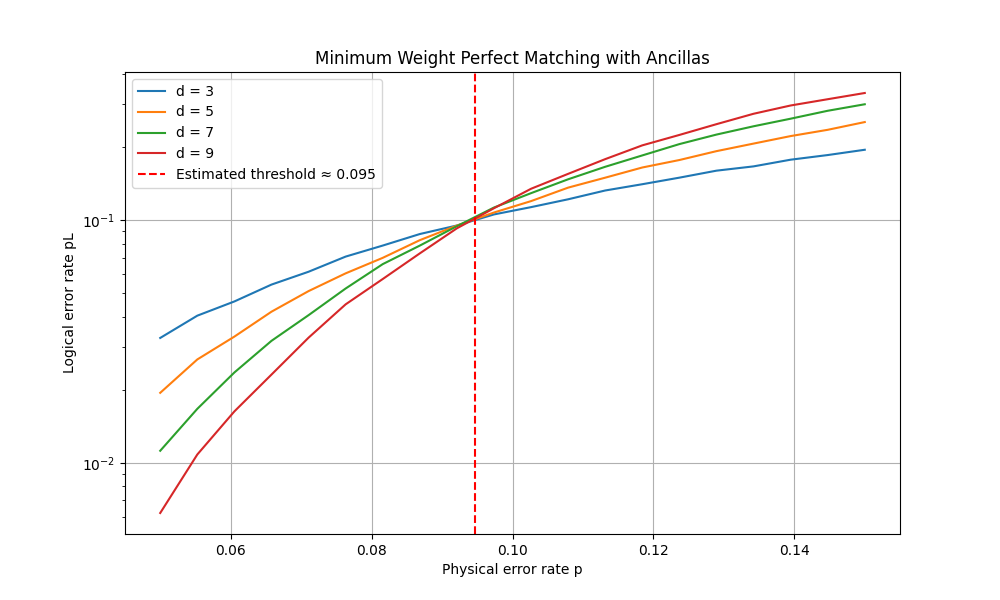
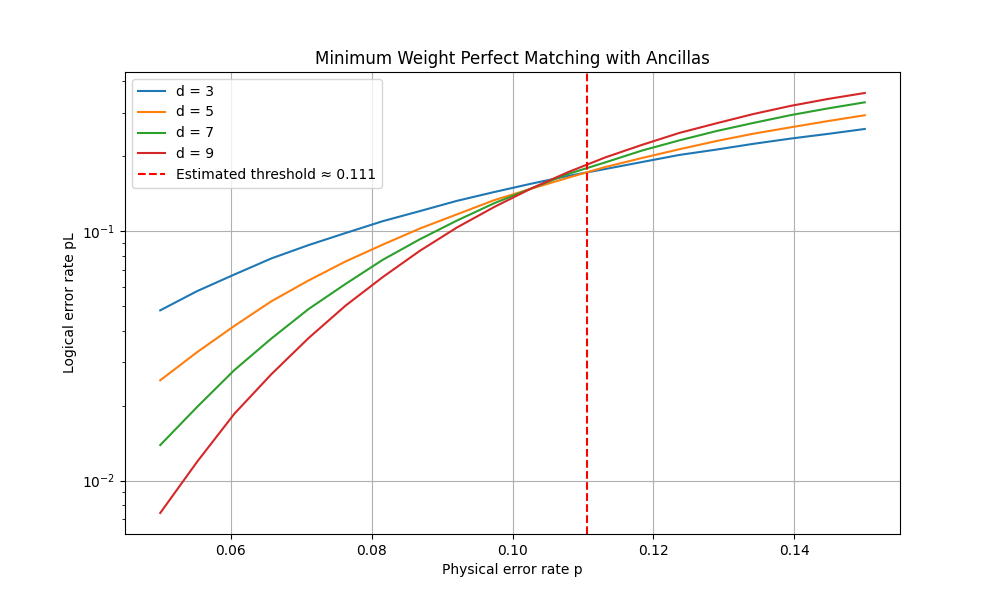
fix: Problem 2 Threshold (#8)
* fix circuit

* improve theshold

* add comment

* upload result

diff --git a/simulation_code/problem_2.py b/simulation_code/problem_2.py
@@ -30,41 +30,22 @@ def generate_repetition_code_circuit(d, p, q):
         circuit.append("R", [qubit])
 
     for _ in range(d - 1):
-        # Errors for data qubits
-        for qubit in range(d):
-            circuit.append("X_ERROR", [qubit], p)
+        for i in range(total_qubits):
+            if i % 2 == 0:
+                circuit.append_operation("X_ERROR", [i], p)
+            else:
+                circuit.append_operation("X_ERROR", [i], q)
 
-        # Errors for ancilla qubits
-        for qubit in range(d, total_qubits):
-            circuit.append("X_ERROR", [qubit], q)
+        for i in range(1, total_qubits, 2):
+            circuit.append_operation("CNOT", [i - 1, i])
+            circuit.append_operation("CNOT", [i + 1, i])
+            circuit.append_operation("M", [i])
+            circuit.append_operation("R", [i])
 
-        # Hadamard for ancilla qubits
-        for qubit in range(d, total_qubits):
-            circuit.append("H", [qubit])
-
-        # 1st set of CZ
-        for qubit in range(d, total_qubits):
-            circuit.append("CZ", [qubit, qubit - d + 1])
-
-        # 2nd set of CZ
-        for qubit in range(d, total_qubits):
-            circuit.append("CZ", [qubit, qubit - d])
-
-        # Hadamard for ancilla qubits
-        for qubit in range(d, total_qubits):
-            circuit.append("H", [qubit])
-
-        # Measure ancilla qubits
-        for qubit in range(d, total_qubits):
-            circuit.append("MZ", [qubit])
-
-        # Reset ancilla qubits
-        for qubit in range(d, total_qubits):
-            circuit.append("R", [qubit])
-
-    # Measure data qubits
-    for qubit in range(d):
-        circuit.append("MZ", [qubit])
+    # Measure in Z basis
+    for i in range(0, total_qubits, 2):
+        circuit.append_operation("X_ERROR", [i], p)
+        circuit.append_operation("M", [i])
 
     return circuit
 
@@ -218,10 +199,16 @@ def simulate_threshold(n_runs=10**6):
     threshold_p = None
     for i in range(len(probabilities) - 1):
         pL_prev_dist = -1
+        all_d = True
         for d in distances:
-            if i > 0 and pL_prev_dist > 0 and pL_prev_dist < results[d][i]:
-                threshold_p = (probabilities[i - 1] + probabilities[i]) / 2
-                break
+            if i > 0 and pL_prev_dist > 0:
+                # Only when the pL of distances is in increasing order do we mark the threshold
+                if pL_prev_dist < results[d][i]:
+                    if d == distances[-1] and all_d:
+                        threshold_p = (probabilities[i - 1] + probabilities[i]) / 2
+                        break
+                else:
+                    all_d = False
             pL_prev_dist = results[d][i]
         if threshold_p is not None:
             break
